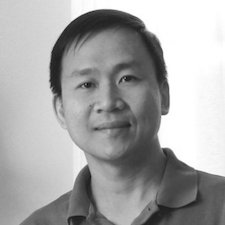
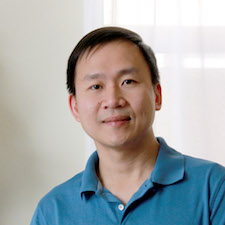
Changed Ed photo to color for consistency. Edit the service areas for better consistency and brevity

diff --git a/index.html b/index.html
@@ -140,9 +140,8 @@
                     </span>
                     <h4 class="service-heading">Product and Technology Roadmap</h4>
                     <ul>
-                    <li class="text-muted bullet-item">Review business plan and model</li>
-                    <li class="text-muted bullet-item">Review current product and technology</li>
-                    <li class="text-muted bullet-item">Develop foundation and roadmap for future growth</li>
+                    <li class="text-muted bullet-item">Assist with business plan and growth model</li>
+                    <li class="text-muted bullet-item">Develop product foundation and technology roadmap for future growth</li>
                     </ul>
                 </div>
             </div>
@@ -165,8 +164,8 @@
                     </span>
                     <h4 class="service-heading">Improve Development Methodology</h4>
                     <ul>
-                    <li class="text-muted bullet-item">Review existing methodologies for friction points</li>
                     <li class="text-muted bullet-item">Implement proven agile methodologies that fit your startup culture</li>
+                    <li class="text-muted bullet-item">Implement/revise methodologies that minimize friction points and improve productivity</li>
                     </ul>
                 </div>
                </div>
